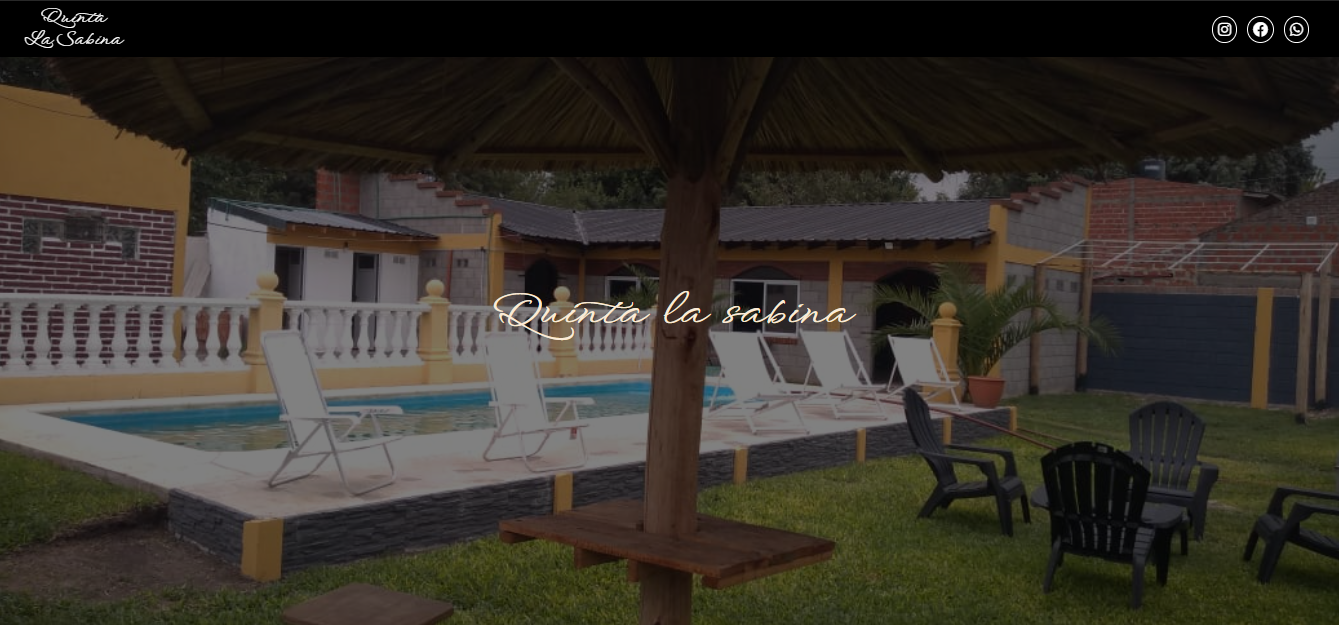
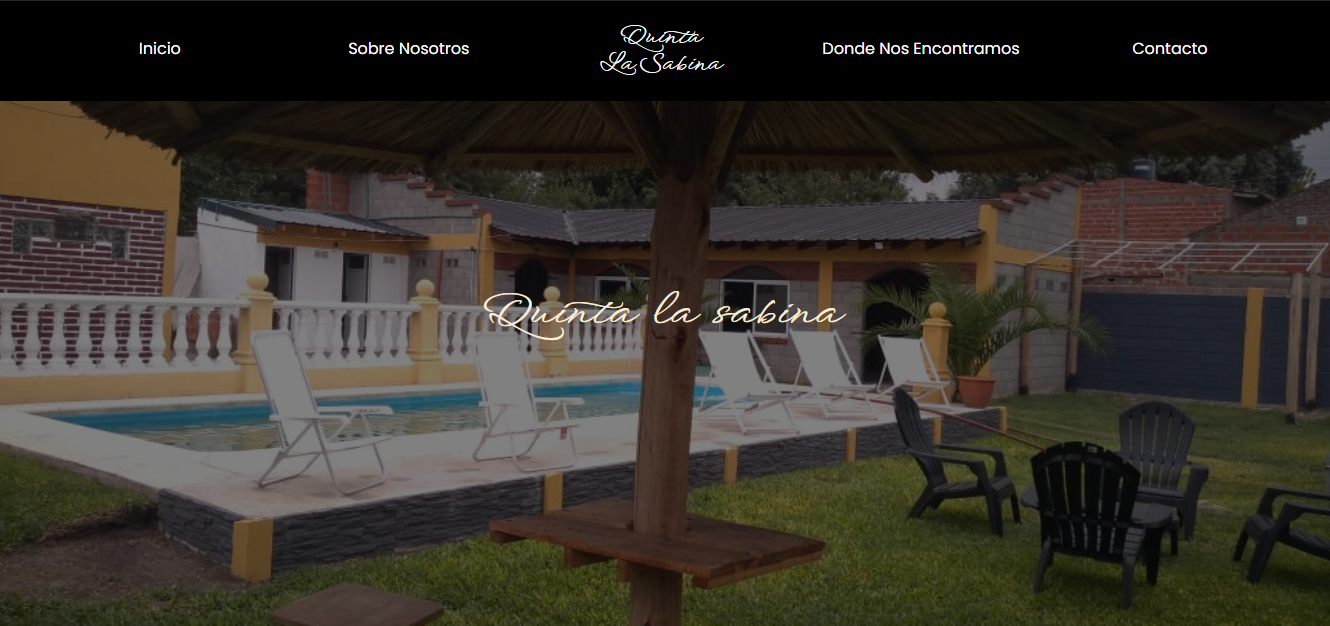
mejoras

diff --git a/index.html b/index.html
@@ -161,7 +161,7 @@
 
     <!-- Skills a mejorar -->
     <div class="section skills2" id="Habilidades2">
-      <h2>Habilidades por mejorar</h2>
+      <h2>Habilidades en desarrollo</h2>
       <div class="hero__icon-container">
         <div class="hero__icons">
           <i class="fab fa-github-square icon-resize"></i>
@@ -250,8 +250,8 @@
             </div>
             <div class="card__bottom">
               <h3 class="card__title">Quinta "La Sabina"</h3>
-              <h4 class="card__subtitle">Trabajo Freelance para negocio local</h4>
-              <p class="card__p"></p>
+              <h4 class="card__subtitle">Trabajo Freelance</h4>
+              <p class="card__p">Web echa para emprendimiento familiar</p>
             </div>
           </a>
         </div>

diff --git a/style.css b/style.css
@@ -176,6 +176,7 @@ ul li{
     flex-direction: column;
     justify-content: center;
     align-items: center;
+    padding-top: 83px;
 }
 
 .hero__icon-container,.card__container{
@@ -185,6 +186,10 @@ ul li{
     justify-content: space-evenly;
     align-items: center;
     margin-bottom: 50px;
+}
+
+.card__container{
+    width: 90%;
 }
 
 .hero__icons{
